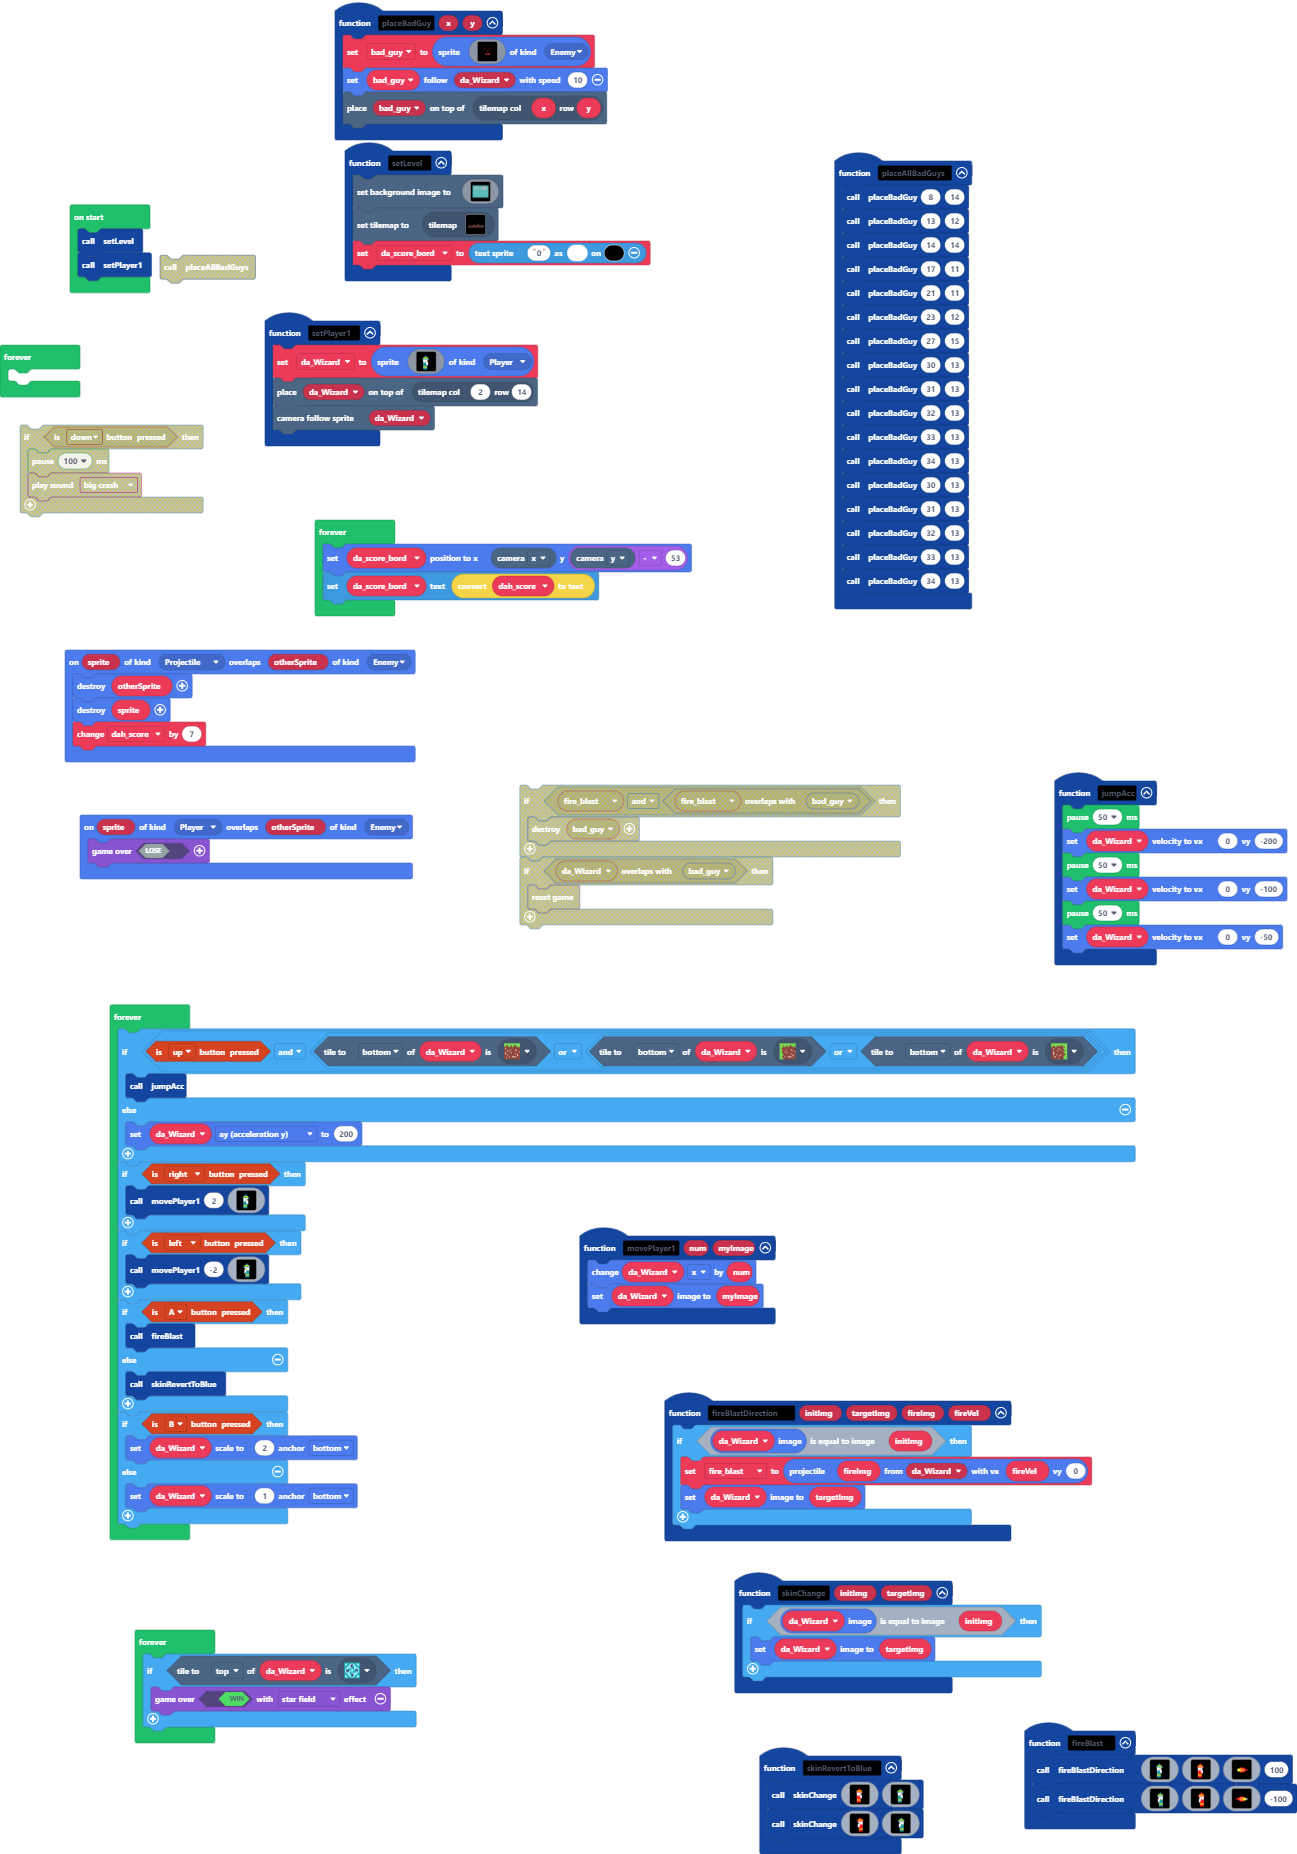
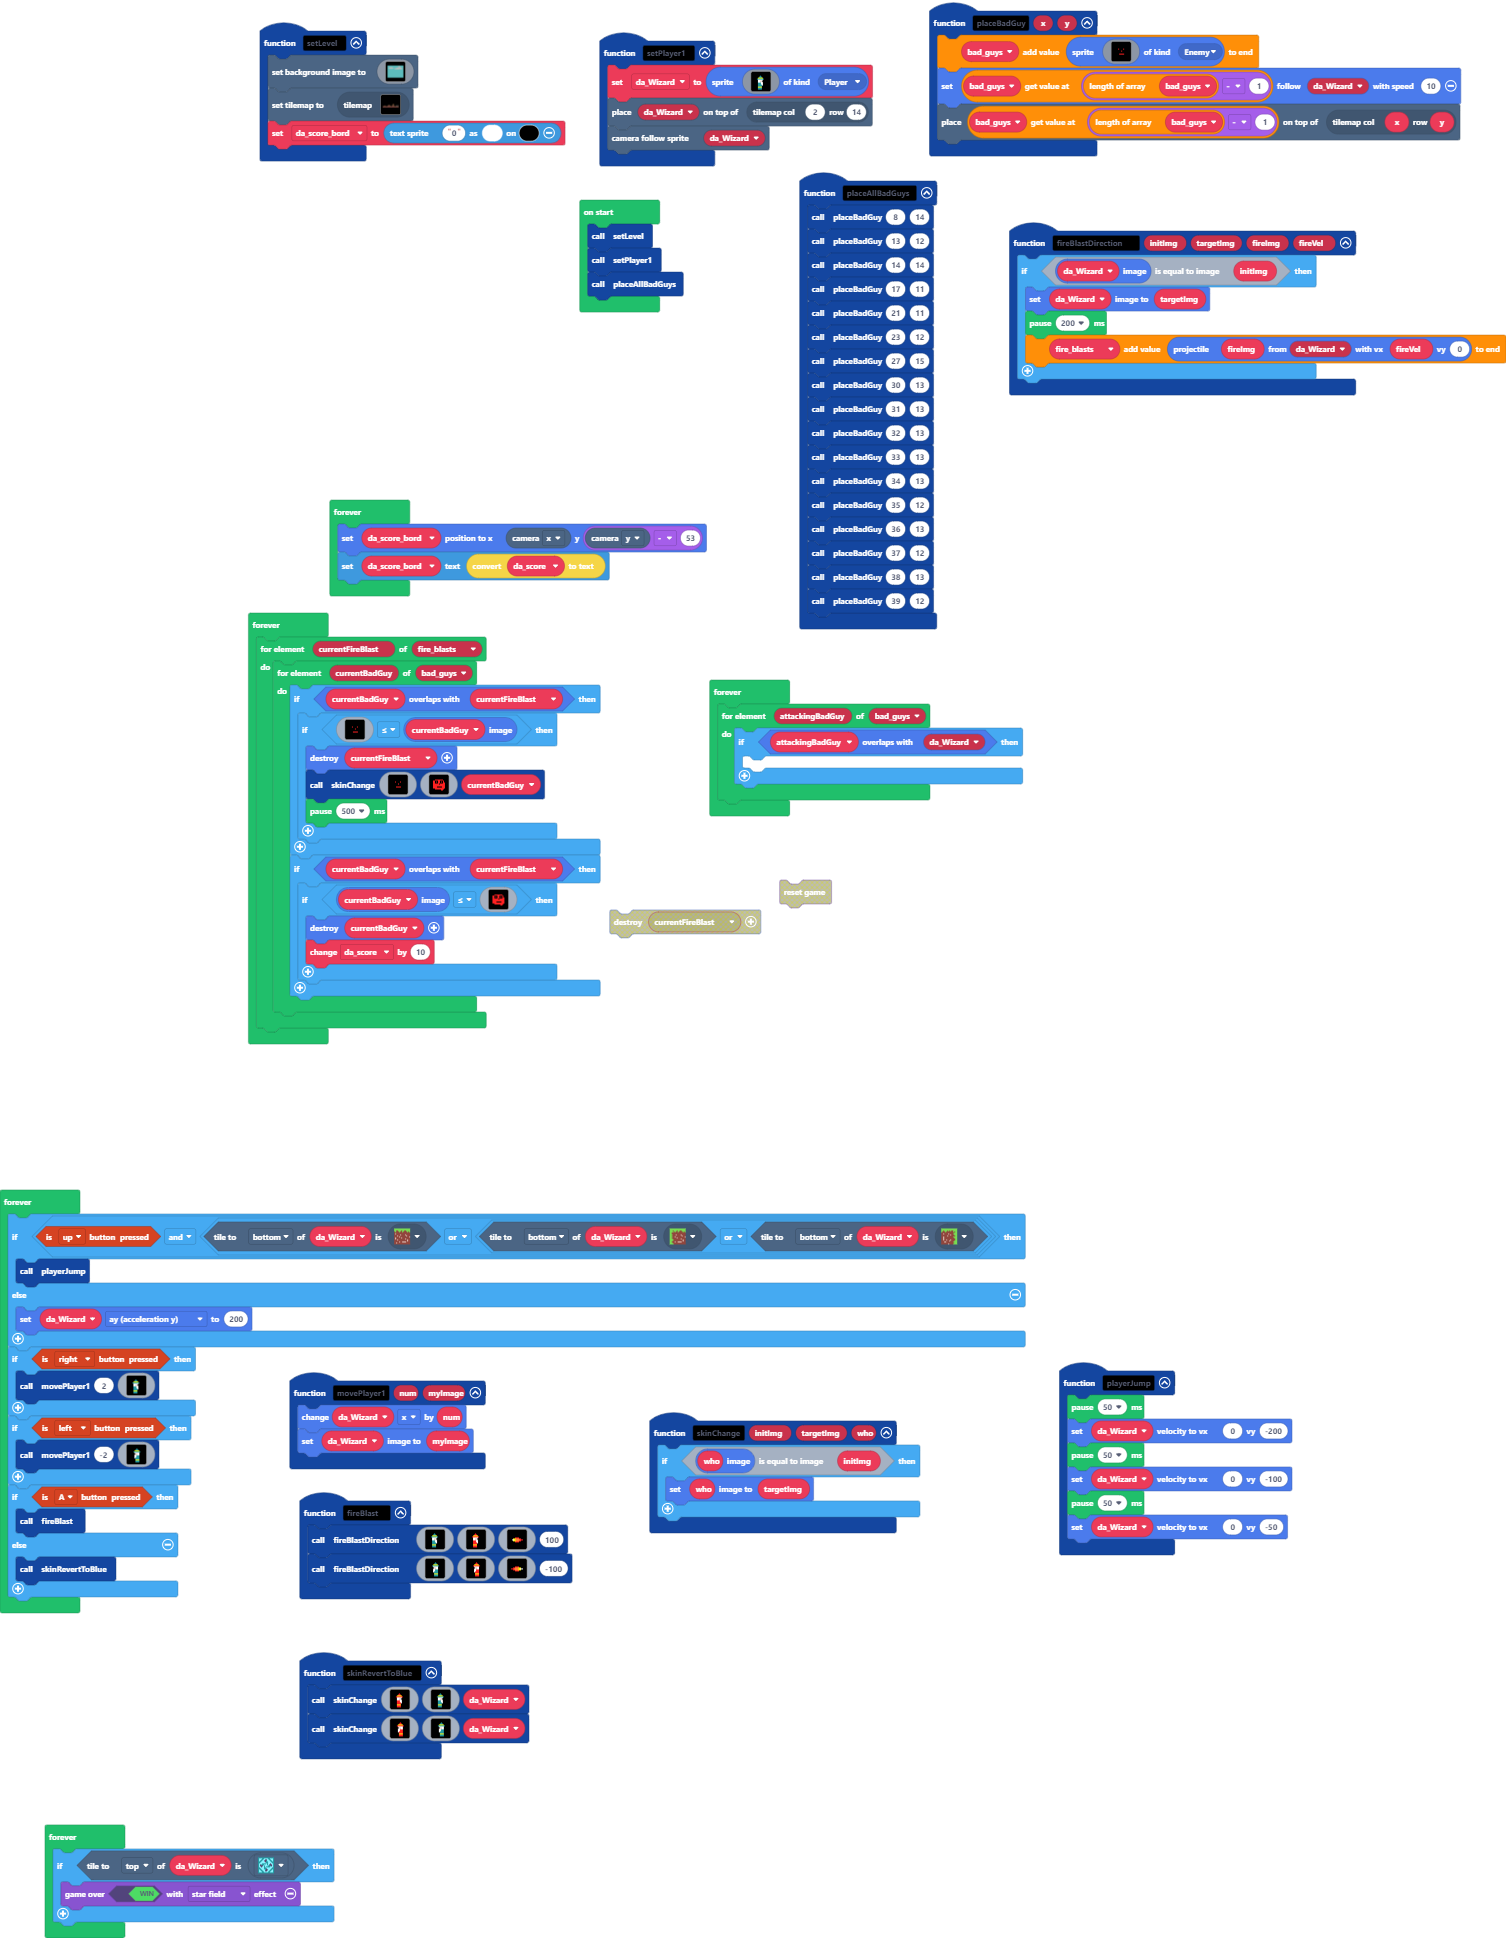
Update main.blocks, main.ts, images.g.jres, images.g.ts

diff --git a/main.ts b/main.ts
@@ -3,34 +3,35 @@ function setLevel () {
     tiles.setCurrentTilemap(tilemap`level1`)
     da_score_bord = textsprite.create("0", 15, 1)
 }
-function skinChange (initImg: Image, targetImg: Image) {
-    if (da_Wizard.image.equals(initImg)) {
-        da_Wizard.setImage(targetImg)
+function skinChange (initImg: Image, targetImg: Image, who: Sprite) {
+    if (who.image.equals(initImg)) {
+        who.setImage(targetImg)
     }
 }
-function jumpAcc () {
-    pause(50)
-    da_Wizard.setVelocity(0, -200)
-    pause(50)
-    da_Wizard.setVelocity(0, -100)
-    pause(50)
-    da_Wizard.setVelocity(0, -50)
-}
 function placeBadGuy (x: number, y: number) {
-    bad_guy = sprites.create(assets.image`bad guy`, SpriteKind.Enemy)
-    bad_guy.follow(da_Wizard, 10)
-    tiles.placeOnTile(bad_guy, tiles.getTileLocation(x, y))
+    bad_guys.push(sprites.create(assets.image`bad guy stage1`, SpriteKind.Enemy))
+    bad_guys[bad_guys.length - 1].follow(da_Wizard, 10)
+    tiles.placeOnTile(bad_guys[bad_guys.length - 1], tiles.getTileLocation(x, y))
 }
 function fireBlastDirection (initImg: Image, targetImg: Image, fireImg: Image, fireVel: number) {
     if (da_Wizard.image.equals(initImg)) {
-        fire_blast = sprites.createProjectileFromSprite(fireImg, da_Wizard, fireVel, 0)
         da_Wizard.setImage(targetImg)
+        pause(200)
+        fire_blasts.push(sprites.createProjectileFromSprite(fireImg, da_Wizard, fireVel, 0))
     }
 }
 function setPlayer1 () {
     da_Wizard = sprites.create(assets.image`Da Wizard right`, SpriteKind.Player)
     tiles.placeOnTile(da_Wizard, tiles.getTileLocation(2, 14))
     scene.cameraFollowSprite(da_Wizard)
+}
+function playerJump () {
+    pause(50)
+    da_Wizard.setVelocity(0, -200)
+    pause(50)
+    da_Wizard.setVelocity(0, -100)
+    pause(50)
+    da_Wizard.setVelocity(0, -50)
 }
 function movePlayer1 (num: number, myImage: Image) {
     da_Wizard.x += num
@@ -41,14 +42,9 @@ function fireBlast () {
     fireBlastDirection(assets.image`Da Wizard left`, assets.image`Da Wizard red left`, assets.image`fire blast left`, -100)
 }
 function skinRevertToBlue () {
-    skinChange(assets.image`Da Wizard red right`, assets.image`Da Wizard right`)
-    skinChange(assets.image`Da Wizard red left`, assets.image`Da Wizard left`)
+    skinChange(assets.image`Da Wizard red right`, assets.image`Da Wizard right`, da_Wizard)
+    skinChange(assets.image`Da Wizard red left`, assets.image`Da Wizard left`, da_Wizard)
 }
-sprites.onOverlap(SpriteKind.Projectile, SpriteKind.Enemy, function (sprite, otherSprite) {
-    otherSprite.destroy()
-    sprite.destroy()
-    dah_score += 7
-})
 function placeAllBadGuys () {
     placeBadGuy(8, 14)
     placeBadGuy(13, 12)
@@ -62,32 +58,53 @@ function placeAllBadGuys () {
     placeBadGuy(32, 13)
     placeBadGuy(33, 13)
     placeBadGuy(34, 13)
-    placeBadGuy(30, 13)
-    placeBadGuy(31, 13)
-    placeBadGuy(32, 13)
-    placeBadGuy(33, 13)
-    placeBadGuy(34, 13)
+    placeBadGuy(35, 12)
+    placeBadGuy(36, 13)
+    placeBadGuy(37, 12)
+    placeBadGuy(38, 13)
+    placeBadGuy(39, 12)
 }
-sprites.onOverlap(SpriteKind.Player, SpriteKind.Enemy, function (sprite, otherSprite) {
-    game.over(false)
-})
-let dah_score = 0
-let fire_blast: Sprite = null
-let bad_guy: Sprite = null
+let da_score = 0
+let fire_blasts: Sprite[] = []
 let da_Wizard: Sprite = null
+let bad_guys: Sprite[] = []
 let da_score_bord: TextSprite = null
 setLevel()
 setPlayer1()
-forever(function () {
-	
-})
+placeAllBadGuys()
 forever(function () {
     da_score_bord.setPosition(scene.cameraProperty(CameraProperty.X), scene.cameraProperty(CameraProperty.Y) - 53)
-    da_score_bord.setText(convertToText(dah_score))
+    da_score_bord.setText(convertToText(da_score))
+})
+forever(function () {
+    for (let currentFireBlast of fire_blasts) {
+        for (let currentBadGuy of bad_guys) {
+            if (currentBadGuy.overlapsWith(currentFireBlast)) {
+                if (assets.image`bad guy stage1` <= currentBadGuy.image) {
+                    currentFireBlast.destroy()
+                    skinChange(assets.image`bad guy stage1`, assets.image`bad guy stage2`, currentBadGuy)
+                    pause(500)
+                }
+            }
+            if (currentBadGuy.overlapsWith(currentFireBlast)) {
+                if (currentBadGuy.image <= assets.image`bad guy stage2`) {
+                    currentBadGuy.destroy()
+                    da_score += 10
+                }
+            }
+        }
+    }
+})
+forever(function () {
+    for (let attackingBadGuy of bad_guys) {
+        if (attackingBadGuy.overlapsWith(da_Wizard)) {
+        	
+        }
+    }
 })
 forever(function () {
     if (controller.up.isPressed() && (da_Wizard.tileKindAt(TileDirection.Bottom, assets.tile`Grass up`) || (da_Wizard.tileKindAt(TileDirection.Bottom, assets.tile`Grass left up`) || da_Wizard.tileKindAt(TileDirection.Bottom, assets.tile`Grass right up`)))) {
-        jumpAcc()
+        playerJump()
     } else {
         da_Wizard.ay = 200
     }
@@ -101,11 +118,6 @@ forever(function () {
         fireBlast()
     } else {
         skinRevertToBlue()
-    }
-    if (controller.B.isPressed()) {
-        da_Wizard.setScale(2, ScaleAnchor.Bottom)
-    } else {
-        da_Wizard.setScale(1, ScaleAnchor.Bottom)
     }
 })
 forever(function () {

diff --git a/images.g.ts b/images.g.ts
@@ -126,25 +126,6 @@ namespace myImages {
 9999999999999999999999999999999999999999999999999999999999999999999999999999999999999999999999999999999999999999999999999999999999999999999999999999999999999999
 9999999999999999999999999999999999999999999999999999999999999999999999999999999999999999999999999999999999999999999999999999999999999999999999999999999999999999
 `;
-            case "image3":
-            case "bad guy":return img`
-. . . . . . . . . . . . . . . . 
-. . . . . . . . . . . . . . . . 
-. . . . . . . . . . . . . . . . 
-. . . . f f f f f f f f . . . . 
-. . f f f f f f f f f f f . . . 
-. . f f f 2 f f f f 2 f f . . . 
-. . f f f f f f f f f f f f . . 
-. . f f f f f f 2 f f f f f . . 
-. . f f f f f f f f f f f f . . 
-. . f f f f f f f f f f f f . . 
-. . f f f f 2 2 2 2 2 f f f . . 
-. . f f f f f f f f f f f f . . 
-. . . . f f f f f f f f f . . . 
-. . . . . . . . . . f f . . . . 
-. . . . . . . . . . . . . . . . 
-. . . . . . . . . . . . . . . . 
-`;
             case "image6":
             case "fire blast right":return img`
 . . . . . . . . . . . . . . . . 
@@ -258,6 +239,44 @@ namespace myImages {
 . . . . . 5 5 5 5 . . . . . . . 
 . . . . . 2 2 2 2 . . . . . . . 
 . . . . . 2 2 2 2 . . . . . . . 
+`;
+            case "image3":
+            case "bad guy stage1":return img`
+. . . . . . . . . . . . . . . . 
+. . . . . . . . . . . . . . . . 
+. . . . . . . . . . . . . . . . 
+. . . . f f f f f f f f . . . . 
+. . f f f f f f f f f f f . . . 
+. . f f f 2 f f f f 2 f f . . . 
+. . f f f f f f f f f f f f . . 
+. . f f f f f f 2 f f f f f . . 
+. . f f f f f f f f f f f f . . 
+. . f f f f f f f f f f f f . . 
+. . f f f f 2 2 2 2 2 f f f . . 
+. . f f f f f f f f f f f f . . 
+. . . . f f f f f f f f f . . . 
+. . . . . . . . . . f f . . . . 
+. . . . . . . . . . . . . . . . 
+. . . . . . . . . . . . . . . . 
+`;
+            case "image8":
+            case "bad guy stage2":return img`
+. . . . . . . . . . . . . . . . 
+. . . . . . . . . . . . . . . . 
+. . . . . . . . . . . . . . . . 
+. . . . 2 2 2 2 2 2 2 2 . . . . 
+. . 2 2 f f f 2 2 f f f 2 . . . 
+. . 2 2 f 2 f 2 2 f 2 f 2 . . . 
+. . 2 2 f f f 2 2 f f f 2 2 . . 
+. . 2 2 2 2 2 2 f 2 2 2 2 2 . . 
+. . 2 2 2 2 2 2 2 2 2 2 2 2 . . 
+. . 2 2 2 2 2 2 2 2 2 2 2 2 . . 
+. . 2 2 2 2 f f f f f 2 2 2 . . 
+. . 2 2 2 2 2 2 2 2 2 2 2 2 . . 
+. . . . 2 2 2 2 2 2 2 2 2 . . . 
+. . . . . . . . . . 2 2 . . . . 
+. . . . . . . . . . . . . . . . 
+. . . . . . . . . . . . . . . . 
 `;
         }
         return null;
